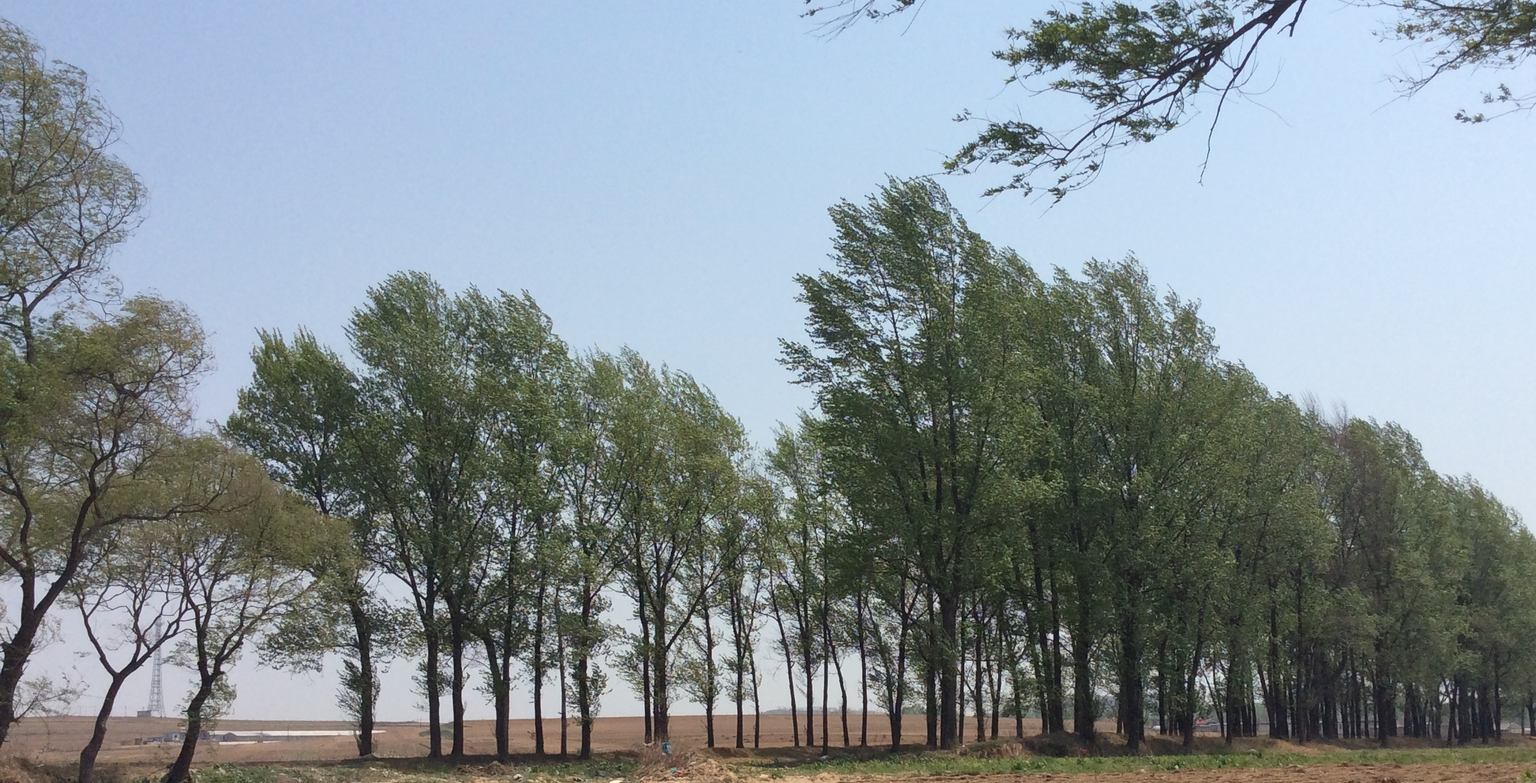
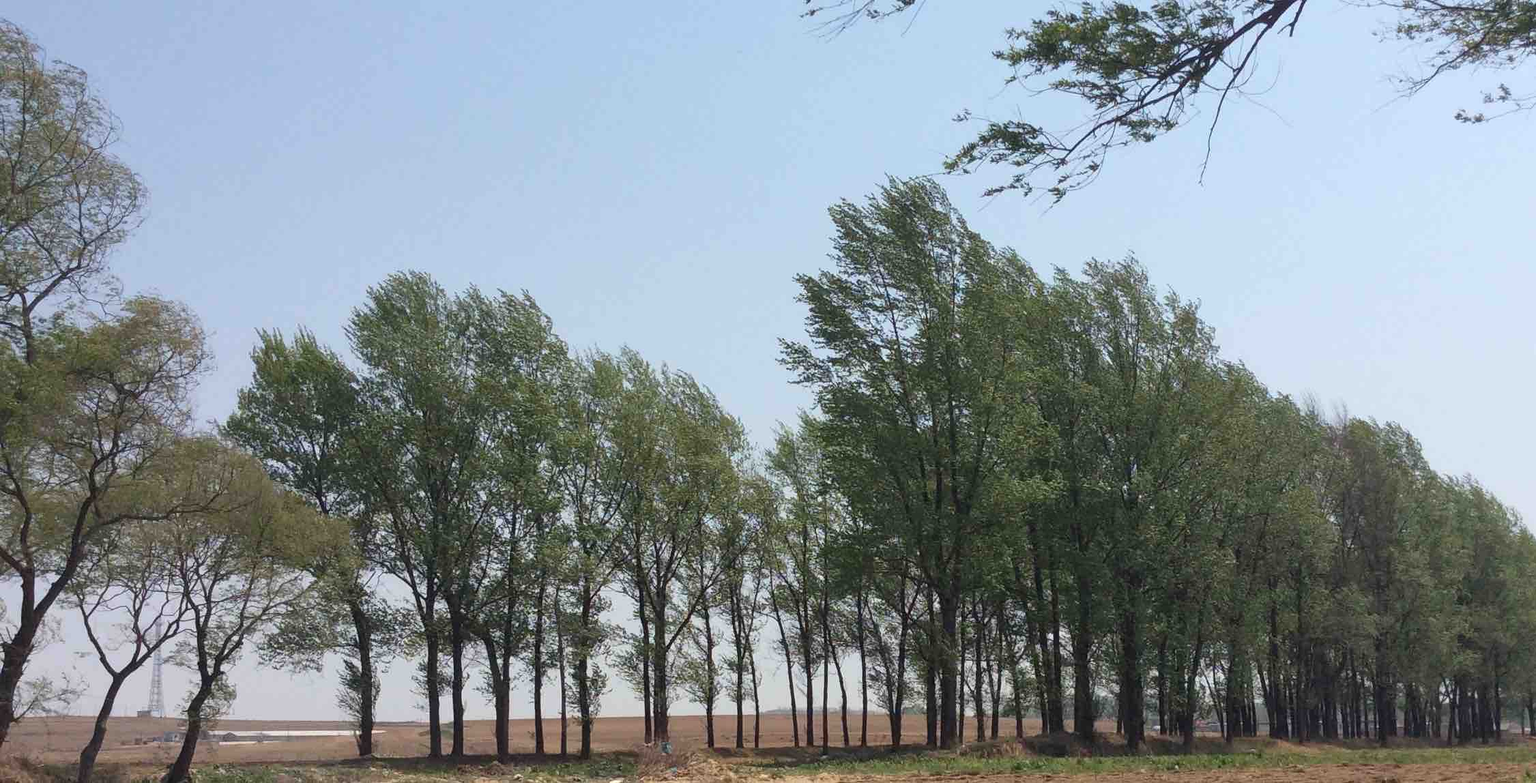
source 改为普通质量图片

diff --git a/source/_posts/旧地重游.md b/source/_posts/旧地重游.md
@@ -1,17 +1,15 @@
----
 title: 旧地重游
+category:
+  - 杂记
 date: 2016-11-13 15:08:03
 tags:
-category:
-- 杂记
 ---
-
-  我背着重重的书包，和几个路上遇到的驴友走在乡间的小路。他们要去某个地方，名字我已经记不清了。而我，并不知道我要去哪里，但我却不愿和他们同去。我们暂时在朝着一个方向走，交流着一路上的经历。迎面来了一辆大巴，油漆图层已经老旧，就和上个世纪电影里的大巴一样。终点正好是那几个人的目的地，我们别过，他们上了车。而我，则依然沿着这条路前行。
+我背着重重的书包，和几个路上遇到的驴友走在乡间的小路。他们要去某个地方，名字我已经记不清了。而我，并不知道我要去哪里，但我却不愿和他们同去。我们暂时在朝着一个方向走，交流着一路上的经历。迎面来了一辆大巴，油漆图层已经老旧，就和上个世纪电影里的大巴一样。终点正好是那几个人的目的地，我们别过，他们上了车。而我，则依然沿着这条路前行。
   
   走进村庄，路边有成熟的水果，可能是我喜欢吃葡萄的原因，唯一记忆着是就是葡萄了。可能是过了季节，藤上的葡萄串都不大，我摘了几个放到嘴里，和平日吃的没什么两样。走几步，看到矮株的香蕉和葡萄的嫁接。这让我分外惊奇，摘下一个，葡萄粒很大，表皮由葡萄的紫色和香蕉的黄色相间组成。剥开皮，能看到香蕉那种颗粒状，也有葡萄的汁水。可能是梦里的缘故，我并不记得到底是什么味道。我这是有多喜欢吃葡萄:sweat_smile:，竟然梦到葡萄和香蕉的嫁接。
   
   转过身来，看到一排房子，一个门洞里走出几只考拉，两只脚着地的走出来，大的在前，一字前后排开，前面的考拉冲着对面街道过来的浣熊打招呼，“嗯，嗯嗯~”, “嗯嗯”。我想象中的考拉是很害羞很懒惰的，怎么会出来散步，并且一点不怕我。接着跑出来一群小黄猫，在互相追逐，就像幼儿园下课似的。我觉得可爱，想拍下来，发现手机竟然连着wifi。这让我很是好奇，我打开手机设置，发现的确连接着“XX休闲温泉”的wifi。但是我印象中没有接过某个温泉的wifi，怎么会自动连上呢？然后我抬头发现一个牌子，写着“XX休闲温泉”的wifi和密码。牌子由于日晒已经老旧，这时我突然记得我曾经旅途来过这里，这wifi贴在外面就是给路过的旅客暂用的吧。用了温泉的wifi，让我都有点不好意思，甚至有进去泡泡澡的冲动:grin:。犹豫间，一对老年人正手挽手从我身旁走过，他们并没有说话，只是慢慢前行，好像他们也没有注意到我。整个环境给人一种陌生，而又舒服的感觉，尤其是意识到自己第二次来到这么和谐的情境，让人倍加舒心。我多希望你也能体会到第二次梦到同一个美好梦境的那种新奇感。是能令人欣喜到醒来的冲动。
   
-  我还有过同一个梦境梦到两次的情景，那是一个稍微炎热的晴天，爬过一个小坡，然后接着向下的一个坡，在坡底有树藤搭成的树荫，短暂的低洼处的树荫，就是这样一个简单的构造，但我很喜欢，以至于也梦到过两次。更为奇特的是，我在一次骑车回家的时候，我特意的没有走公路，而是完全的凭直觉走小路，在那一次旅行中，我遇到了两个梦中出现的情景，简直一模一样。一个是一条河流两旁有许多茂密的杨树，这个情景是我远处看到的，并没有亲自去河边重现。但后来一个偶然的机会，我走到了河边，拍了张照片。{% asset_img IMG_1.JPG 其中一个梦境 %}
+  我还有过同一个梦境梦到两次的情景，那是一个稍微炎热的晴天，爬过一个小坡，然后接着向下的一个坡，在坡底有树藤搭成的树荫，短暂的低洼处的树荫，就是这样一个简单的构造，但我很喜欢，以至于也梦到过两次。更为奇特的是，我在一次骑车回家的时候，我特意的没有走公路，而是完全的凭直觉走小路，在那一次旅行中，我遇到了两个梦中出现的情景，简直一模一样。一个是一条河流两旁有许多茂密的杨树，这个情景是我远处看到的，并没有亲自去河边重现。但后来一个偶然的机会，我走到了河边，拍了张照片。{% asset_img IMG_1.jpg 其中一个梦境 %}
   
   另一个情景就是树藤荫，当我爬上山坡看到这个场景时，我差点叫了出来，它并没有多美，但就是巧合得令人欣喜。仿佛一个不凑巧遇到久违的朋友，呀！你怎么会在这里。

diff --git a/source/_posts/掌控注意力.md b/source/_posts/掌控注意力.md
@@ -14,6 +14,7 @@ date: 2019-11-10 01:58:00
 * 不过分关注新闻、事实、八卦、论坛、群灌水等人多嘴杂之事。这类杂乱无章的信息尤其浪费注意力，使其涣散，有事甚至起负面作用。
 * 遇到信息或其他可阅读介质，要预先甄别，过滤，然后再阅读。
 * 接触网络要做某件事一定要目标明确且坚定，不可因看到某个新闻或某个感兴趣话题而沉迷其中忘记了最开始要接触网络的目标。
+* 如非必要（查阅资料信息），不主动获取网络上的内容。尤其不以放松享乐为目的的上网。
 * 注意休息。
 
 ###### 输出

diff --git a/source/_posts/2019-11.md b/source/_posts/2019-11.md
@@ -44,3 +44,9 @@ date: 2019-11-13 00:16:00
 {% asset_img sunlight.jpeg %}
 
 排版，十二点五十了。。
+
+##### 2019-11-13 23:36
+
+目前的状态渐入佳境，对所接触和所感悟的事能记录下来，是件很快乐的事情。我并不为以前浪费时间未能有效输入而懊恼，而为此刻能有所得而感到欣慰:smiley:。
+
+后续再在家里锻炼，则能省掉去健身房和换衣服的时间，身体状态和生活状态会更好。

diff --git a/source/_posts/学习窍门.md b/source/_posts/学习窍门.md
@@ -1,0 +1,9 @@
+title: 学习窍门
+date: 2019-11-13 23:21:26
+tags:
+---
+{% asset_img notebook.jpg %}
+*总结对个人而言的有效提高学习效率的方法和工具。*
+
+* 开启`Relax Melodies` App中的`20Hz`声音（等时铃声，不需要耳机），可提高阅读效率。音量稍弱为好，像猫的呼噜声。对思考和学习效率的影响有待验证，不清楚是正效率还是负面的。
+{% asset_img Relax Melodies relax_melodies.jpeg %}

diff --git a/source/_posts/个人行为准则.md b/source/_posts/个人行为准则.md
@@ -1,0 +1,12 @@
+title: 个人行为准则
+tags:
+  - 准则
+categories:
+  - 总结
+date: 2019-11-13 20:27:00
+---
+*在此总结部分个人认为有益的行为准则，不求全，但求有用。*
+
+* 工作时间外，尽量少的接触外部的信息。如无必要，不主动输出信息。
+
+{% asset_img flower.jpg %}

diff --git a/source/_posts/grape股票列表-不定期更新.md b/source/_posts/grape股票列表-不定期更新.md
@@ -69,3 +69,10 @@ find_head_up(filter_time=1.3)
 1
 
 ----------------------------------------------------------------------------
+
+2019-11-13
+find_head_up(filter_time=1.3)
+600827 百联股份 超市连锁 上海: 2019-11-07 收盘价: 8.93
+1
+
+----------------------------------------------------------------------------
